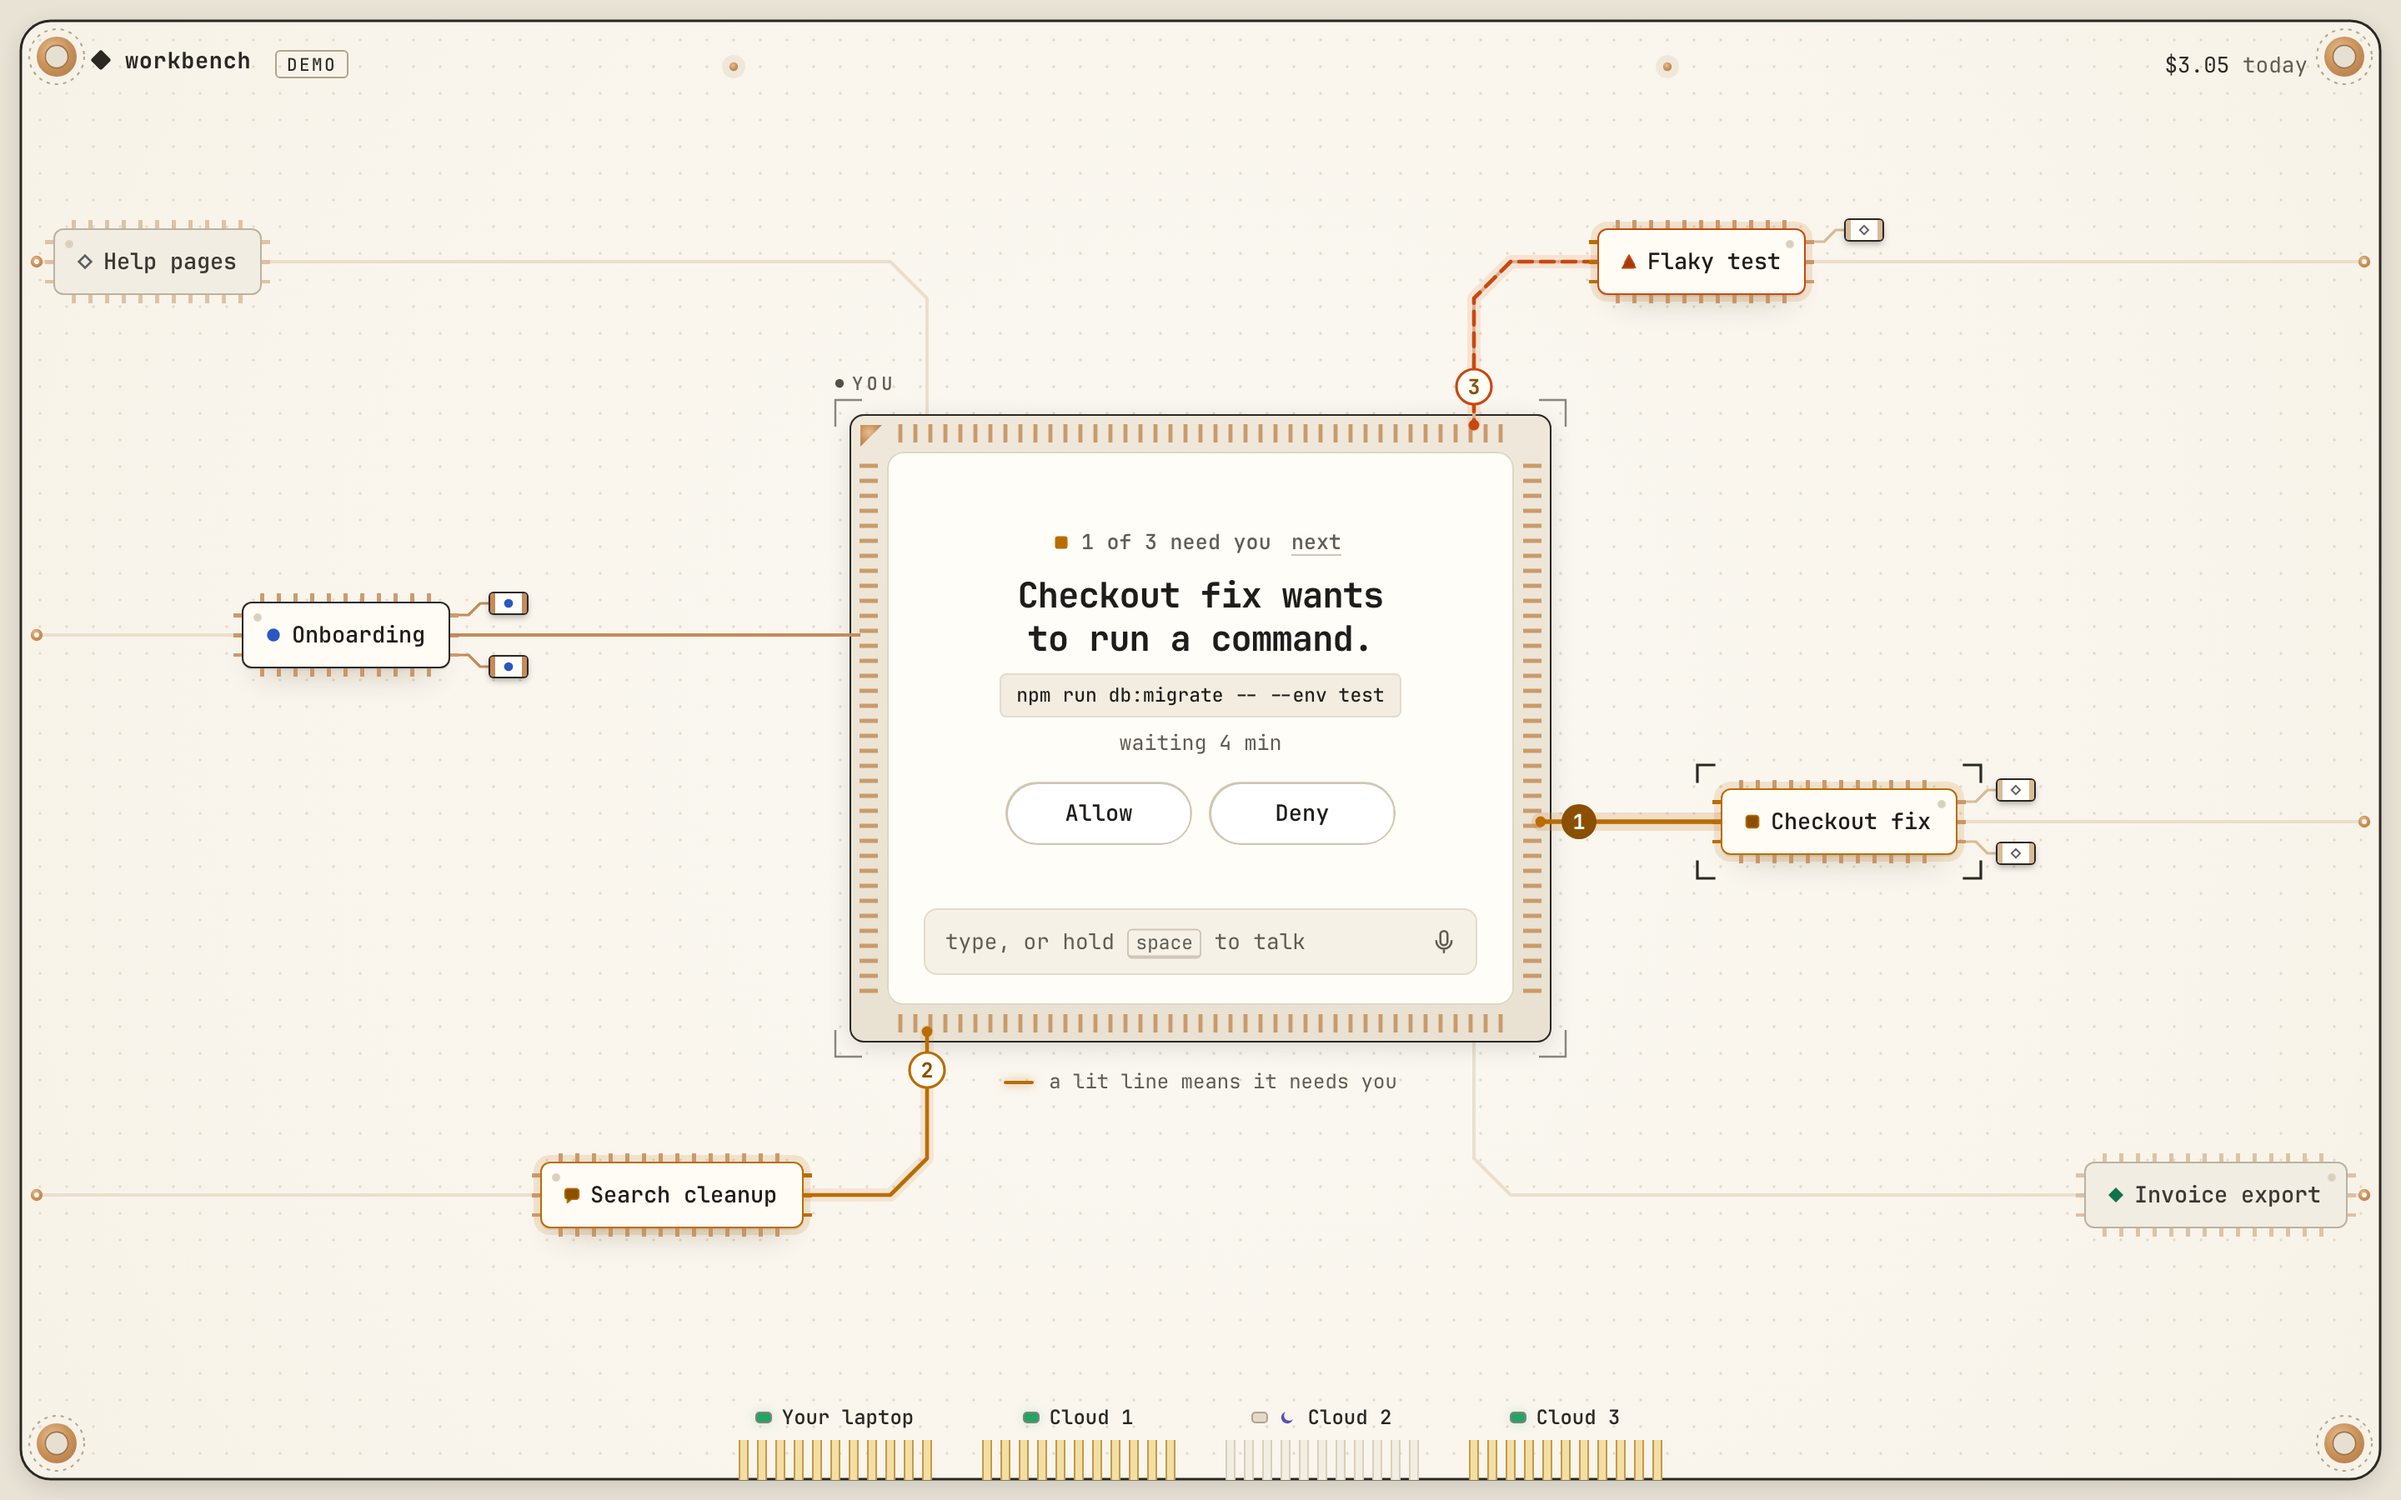
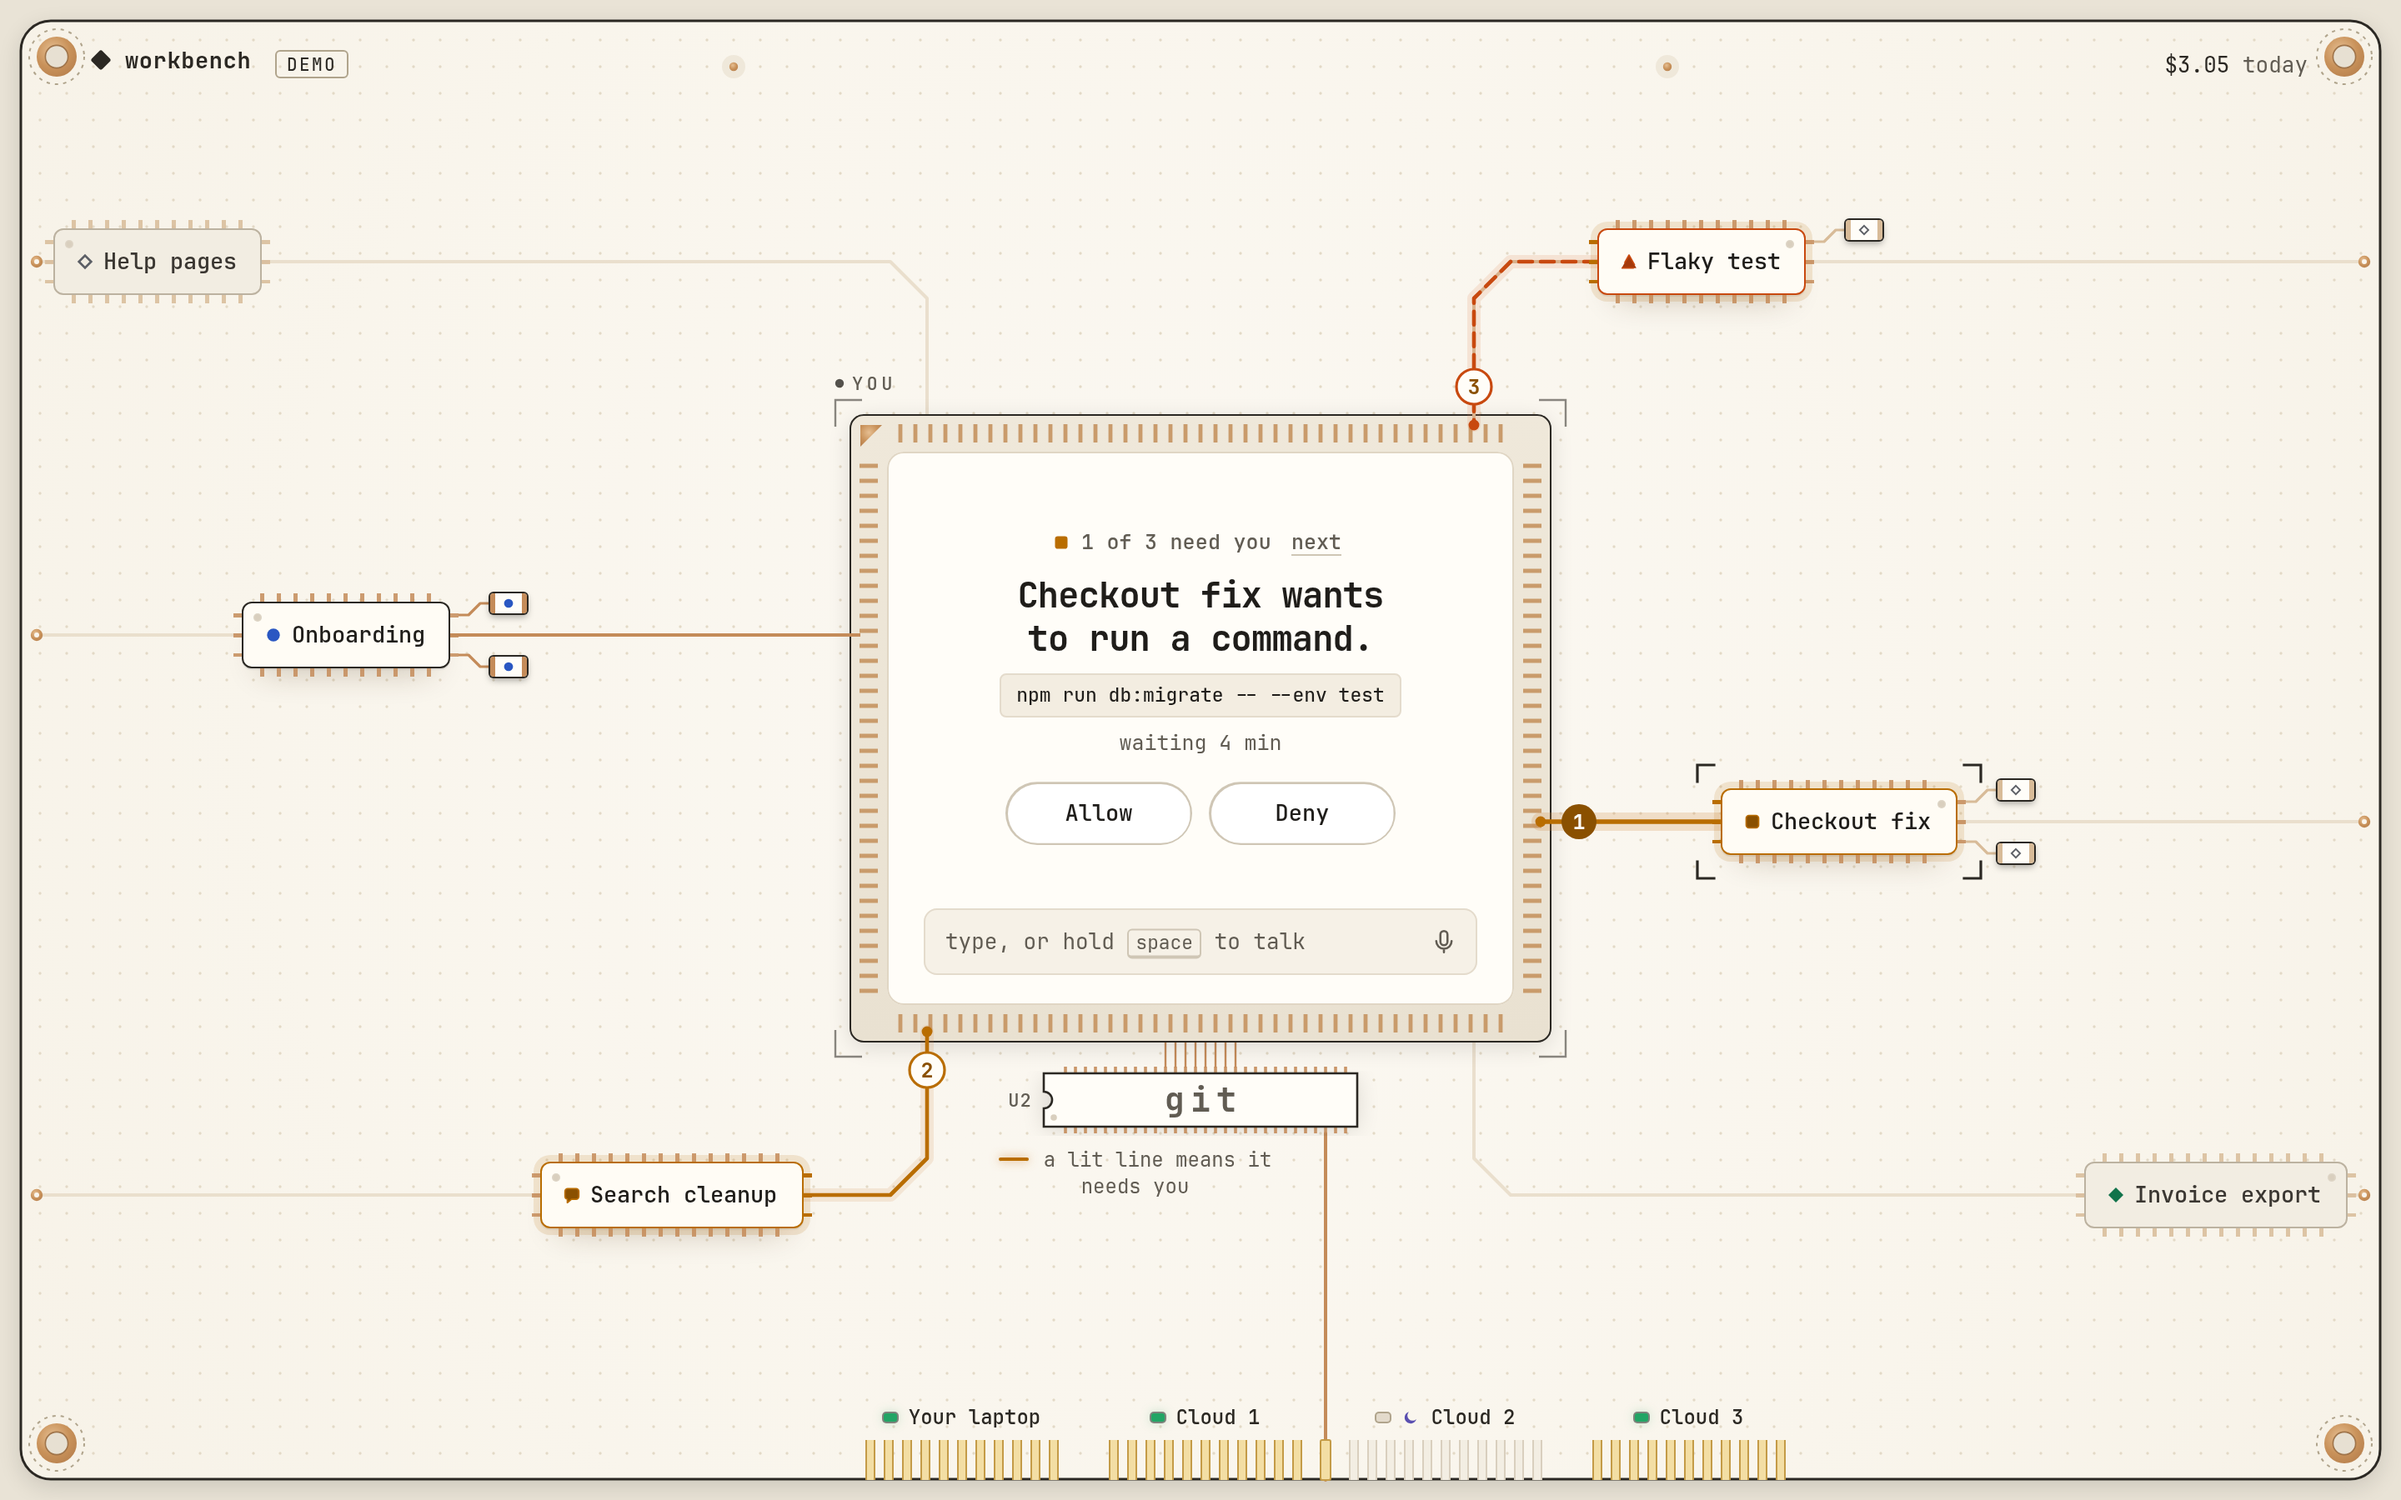
Screenshots: the board with the git chip, and the git screen
docs/screens/board-*.png taken again (they now show the DRAM with git on it and its wire), and four new git-*.png of
the git screen (the graph, an agent's detail with its diff, black and gold, ivory). The lid's merge views (merge-*.png)
are left out of the repository so agents' copies stay smaller: node scripts/ui-shots.mjs <folder> takes them.

Changed region(s): [[0.3125, 0.9333, 0.75, 0.9956], [0.4062, 0.6844, 0.5625, 0.7778]]

diff --git a/workbench/ARCHITECTURE.md b/workbench/ARCHITECTURE.md
@@ -1001,7 +1001,7 @@ No parameter opens the git screen, and opening it never changes the address.
   - The git screen, opened the way a person opens it, by clicking the DRAM: `git` (the `git`, `git-many` and `git-detached` scenarios, at the top and scrolled to the end), `git-detail` (an agent's detail with the stress diff, scrolled to its end; a commit's detail; a very long branch name), `git-empty`, and `git-tangles`. `git-tangles` serves six histories from real git as `GET /api/git`, through Chrome's `Fetch` domain (switched on for this view only): an agent merged twice, one that brought in main twice, a criss-cross, an agent's branch started from another agent's, two agents on one commit, and 200 commits with an earlier agent whose branch starts past them. Each must fit, at the top and scrolled to the end, with no two lines sharing a stretch, HEAD's silkscreen whole at the graph's left edge, no level run across your trunk in the agent-from-agent and two-on-one histories, and in the last one, the earlier agent's row at the end and the newest work at the top. Like `taint`, it runs only at 960×900 and 1440×789 when more than two sizes are checked. `#gitDetail` is a text layer of its own, `#dram` is one of the board's boxes, and SVG text on the screen not shown, or scrolled out of its scroll box, is skipped.
   - The mock's scenarios for these: `merge` (on main: unmerged, merged, a conflict, one blocked by your own changes, thrown away, an earlier agent with a folder), `merge-more` (a long branch, a failed check, failed and stopped agents with folders, an identity problem, one working), `merge-detached`, `merge-noid`; `git`, `git-many` (48 commits, six agent branches, a long branch name, a right-to-left override in a subject), `git-empty`, `git-detached`, and `git-bring` (an agent on the left lane that brought your branch in, its merge commit having HEAD as its second parent, so its line runs down the gutter beside HEAD; beside it, one working on the right). All of them are in `SCENARIOS`, so the fit check loads each on the board; the git screen of `git-bring` is opened by the behaviour check's check of HEAD's label, and `test/ui-gitscreen.test.mjs` lays out the same history. Every scenario answers `GET /api/git` (made from its agents when it has no history of its own) and `GET /api/agents/:id/changes`; "Invoice export" answers with a stress diff (CRLF, tabs, zero-width characters, a 400-character line, binary, large, deleted, a link, U+202E in a path, a long path, files left out). `POST /ctl/mode { merge, delay }` sets what the next merge does (`ok`, a refusal that is kept as a problem, one that is not, or `refuse`), and how long typed words, merges, throw-aways and a card's answers take to answer (`delay: { command, merge, discard, confirm }`, in ms: the engine does git work before it answers); `GET /ctl/reads` lists the git screen's reads. A typed merge or throw-away ("merge it", or "merge search cleanup": the words may name the agent) is answered as the engine answers, with the card and no `focusId`; unlike the engine's, the mock's cards carry no `agentId`.
 - `scripts/ui-behaviour-check.mjs` checks the rules above in the page (earlier agents in the tray and never in the queue, Continue, Forget with its question, answers bound by id, the half-second guard, holding against the stream and letting go for the person's own moves with a real mouse and keyboard, focus, failed answers, "Look later", "next", typed and spoken words bound to nothing during a swap, confirm cards, the looks, the stale key, rest, reduced motion, voice, keys) and prints every request the page sent. For an agent's work it checks that Merge asks first and posts the agent and state it was drawn for, with the engine's card in its own words; that a Merge click right after the core changes is ignored, and one drawn before a change in the agent's state, its work or the person's branch says "That changed" and posts nothing; that the merge card's yes and no post `/api/confirm/<id>` and a yes shows the outcome on that agent; that Throw it away always asks (no primary answer, a bare "yes" is not enough, Keep it keeps it); that "Not now" answers "Not now" without an ask id and the core moves on; that "Ask it to bring in main" sends its exact message and "Look later" sets a conflict aside; that "Try again" asks for the merge again; that a merge git refuses after yes keeps its reason on the agent; that a refused Merge changes nothing; that Esc withdraws a merge card; that where git cannot merge the lid says why and "Looks good" stays; that Review posts nothing, opens the git screen on that agent, and Esc comes back to the lid with focus on the link; that the DRAM opens the git screen and "Back to the board" returns; and that while the git screen shows, something new needing you lights the top band's button. Eighteen more, each named "Git screen: …" (`--only 'Git screen'` runs just these), hold the git screen to the lid's rules: the card that comes in place of the detail's actions ignores a click for a moment (with the mock's slow replies, with and without motion); Esc while listening throws the words away, and the screen and its card stay; with reduced motion, every move between the screens keeps the keyboard; keyboard Merge, its card and the card's answer keep the keyboard, and the card is said; the card shows hidden characters; words typed or spoken there are bound when they begin; talking there shows the wave and the words heard; black and gold focus rings stand out from the card (3:1); something new that needs you is said; HEAD's label is whole and no trace runs through it (`git-empty`, `live`, `git-bring`, `git` and `git-many`, at several sizes); what the screen says shows hidden characters; a word spoken there leaves the board's typing alone; Merge in the detail first withdraws a card waiting in the lid; "<Name> needs you" withdraws a card on screen; a card from typed words goes in a detail only when it is that agent's; focus on a row that goes away moves to a row that is there, and the list keeps one tab stop; a link to an agent with no work node keeps a row selected; and the times move on with the clock. A gate on animation frames (`window.__frames.hold`, `release()`) lets a button drawn before a stream change be clicked, every time, before the page draws again.
-- `scripts/ui-shots.mjs` makes `docs/screens/`, also the lid's merge views (`merge-*`) and the git screen (`git-screen`, `git-detail`, `git-black-gold`, `git-ivory`, which click their way there: a shot's `click` lists selectors clicked in turn after the page loads).
+- `scripts/ui-shots.mjs` makes `docs/screens/` (only the `board-*` and `git-*` shots are kept in the repository, so agents' copies stay smaller; pass a folder to take them all), also the lid's merge views (`merge-*`) and the git screen (`git-screen`, `git-detail`, `git-black-gold`, `git-ivory`, which click their way there: a shot's `click` lists selectors clicked in turn after the page loads).
 
 **Rules.**
 - The UI never shows a percentage of completion or an estimated finish time.

diff --git a/workbench/README.md b/workbench/README.md
@@ -58,7 +58,7 @@ Each state has its own mark and its own words, so nothing depends on colour:
 | cross | failed |
 | ring | stopped |
 
-Screenshots of each look and view are in `docs/screens/`. They were taken before the git chip and the git screen were added; `scripts/ui-shots.mjs` takes them again.
+Screenshots of each look and view are in `docs/screens/`: the board (`board-*.png`, with the git chip) and the git screen (`git-*.png`). `node scripts/ui-shots.mjs <folder>` takes them again, along with the lid's merge views (`merge-*.png`), which are not kept in the repository so that every agent's copy of it stays smaller; the `live-*.png` shots come from an earlier real run.
 
 ## What is real in this prototype
 
